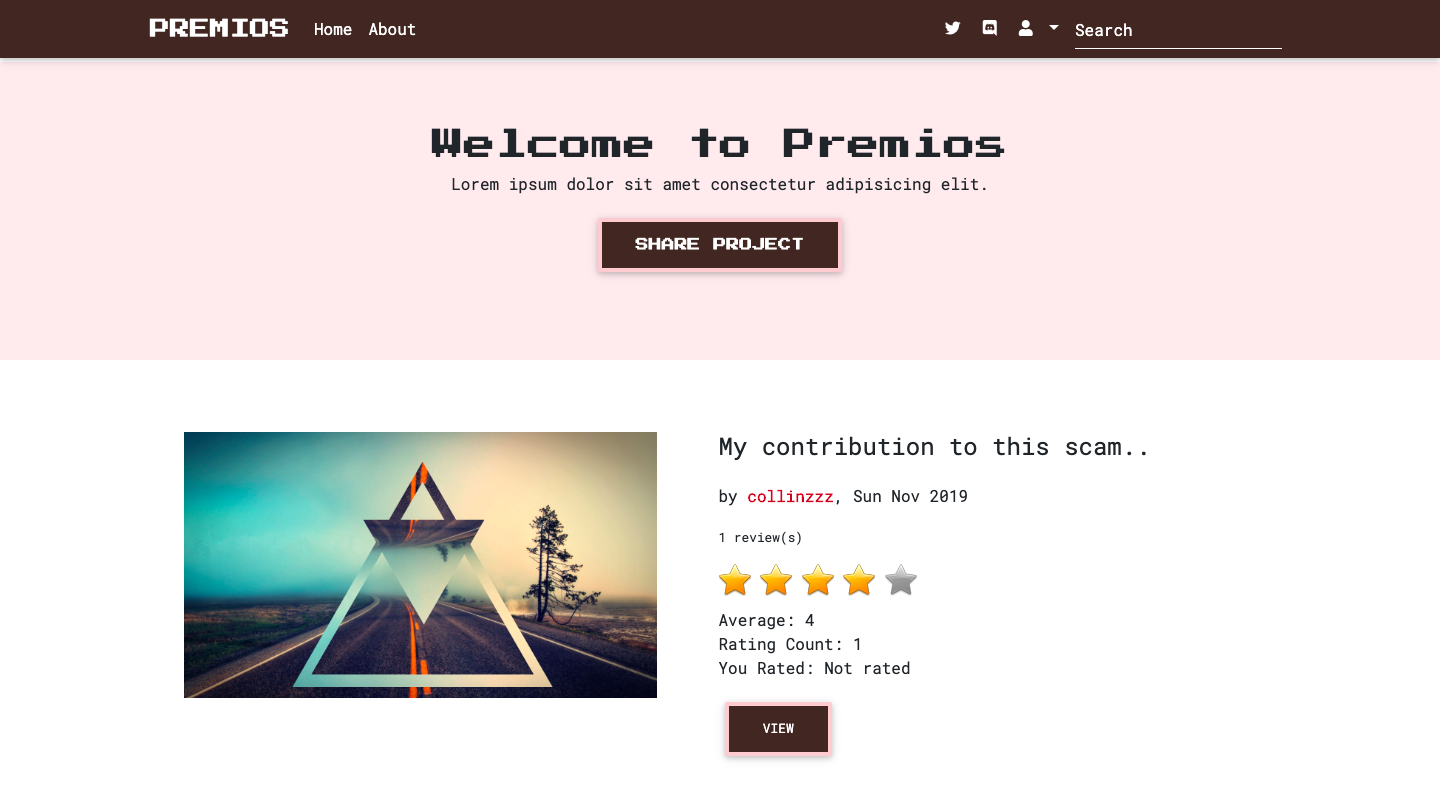
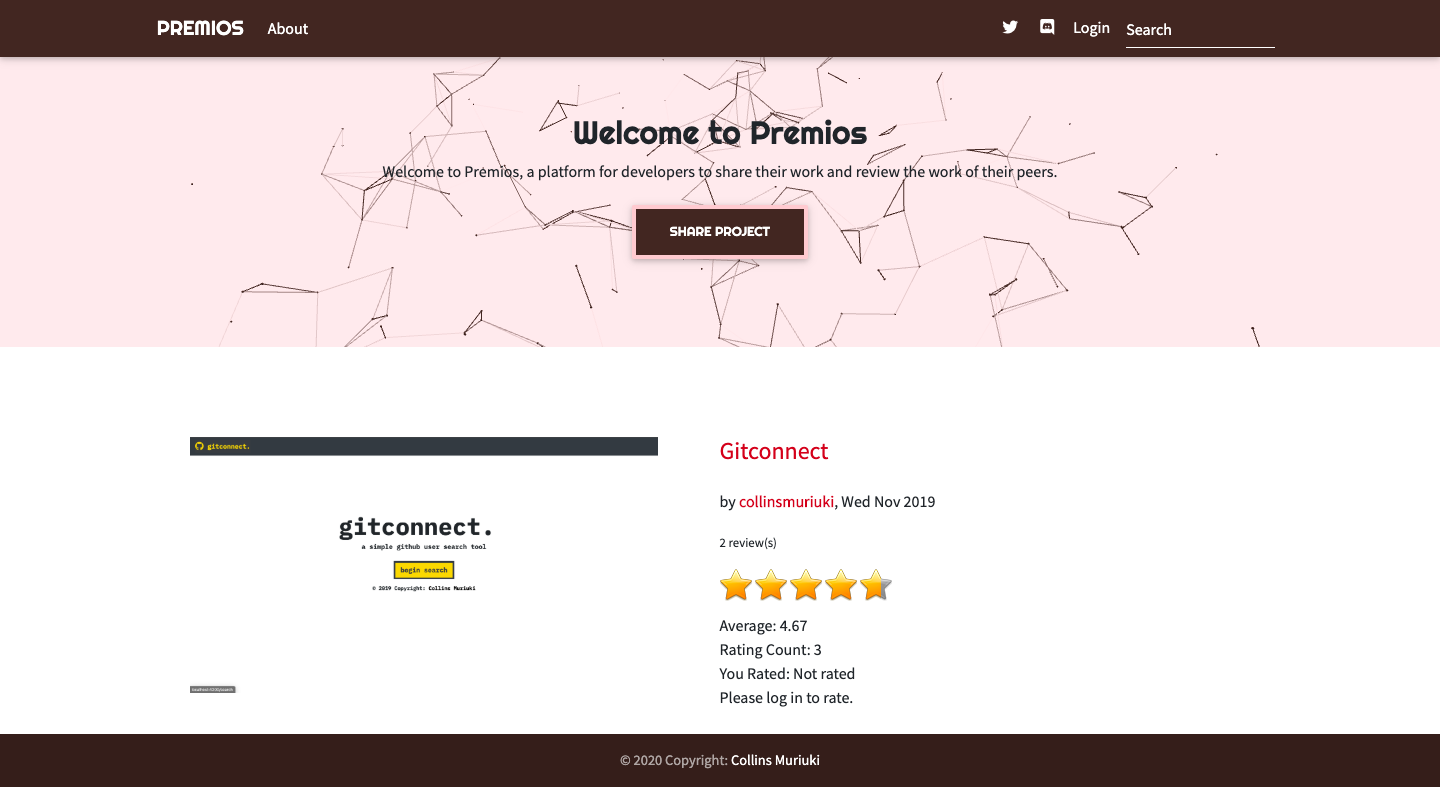
Updating documentation

diff --git a/README.md b/README.md
@@ -26,6 +26,8 @@
 3. MDBootstrap 4.8.10
 4. jQuery 3.4.1
 5. Django 1.11.23
+6. three.js JavaScript Graphics
+7. [vanta.js](https://github.com/tengbao/vanta)
 
 ## Requirements
 
